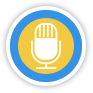
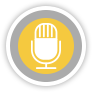
调整了，语音识别 - 倒计时5秒的圆环进度条样式

Changed region(s): [[0.1075, 0.1075, 0.8817, 0.8817]]

diff --git a/cheerz/css/style.css b/cheerz/css/style.css
@@ -396,17 +396,17 @@ input:-ms-input-placeholder {color: #666;}
 .hudong-txt{ position:fixed; left:0; width:100%; text-align:center; bottom:18%;}
 .hudong-txt h3{ color:#ffffff; font-size:.80rem; font-weight:bold;}
 .hudong-txt span{ color:#ffffff; font-size:2.5rem; font-weight:bold; line-height:1.3;}
-.hudong-yuyin{ position:fixed; right:.6rem; bottom:.4rem;}
-.hudong-yuyin img{ width:.93rem; height:.93rem; float:left;}
+.hudong-yuyin{ position:fixed; right:0rem; bottom:0.2rem;}
+.hudong-yuyin img{ width:1.86rem; height:1.86rem; float:left;}
 .hudong-yuyin div_nono{ width:.93rem; height:.93rem; float:left;}
-.hudong-yuyin ul{ float:left; width:1.1rem;}
+.hudong-yuyin ul{ float:left; width:2.2rem;}
 .hudong-yuyin ul li{ float:left; background:#d9d9d9;border-radius:.6rem; margin-left:.08rem; position:relative; overflow:hidden;}
 .hudong-yuyin ul li span{ position:absolute; top:0; left:0; width:100%; height:100%; background:#f5c93f;}
-.hudong-yuyin ul li:nth-child(1){width:.13rem; height:.28rem; margin-top:.52rem;}
-.hudong-yuyin ul li:nth-child(2){width:.13rem; height:.40rem; margin-top:.40rem;}
-.hudong-yuyin ul li:nth-child(3){width:.13rem; height:.52rem; margin-top:.28rem;}
-.hudong-yuyin ul li:nth-child(4){width:.13rem; height:.64rem; margin-top:.16rem;}
-.hudong-yuyin ul li:nth-child(5){width:.13rem; height:.80rem; }
+.hudong-yuyin ul li:nth-child(1){width:.26rem; height:.56rem; margin-top:1.04rem;}
+.hudong-yuyin ul li:nth-child(2){width:.26rem; height:.80rem; margin-top:.8rem;}
+.hudong-yuyin ul li:nth-child(3){width:.26rem; height:1.04rem; margin-top:0.56rem;}
+.hudong-yuyin ul li:nth-child(4){width:.26rem; height:1.28rem; margin-top:.32rem;}
+.hudong-yuyin ul li:nth-child(5){width:.26rem; height:1.6rem; }
 .m-timu2{ position:fixed; left:0; top:0; width:100%; height:100%; background:url(../images/tm.png) repeat;}
 .m-timu{ position:fixed; left:0; top:0; width:100%; height:100%; z-index:9; background:url(../images/tm.png) repeat;}
 .m-timu span{ text-align:center; color:#ffffff; font-size:1rem; line-height:1.2rem; position:fixed; width:100%; left:0; display:block; top:50%; transform: translateY(-50%); }

diff --git a/cheerz/hudong-yuyinshibie.html b/cheerz/hudong-yuyinshibie.html
@@ -11,9 +11,9 @@
 		<div id="orientLayer">
 			<div class="wt-box">
 				<div class="wt-bg"><img id="pict" src=""></div>
-				<div class="hudong-yuyin" >
-					
-                    <img src="images/mkf.png" >
+				<div class="hudong-yuyin">
+
+					<img src="images/mkf.png">
 					<ul>
 						<li><span></span></li>
 						<li><span></span></li>
@@ -21,7 +21,7 @@
 						<li><span></span></li>
 						<li><span></span></li>
 					</ul>
-					<div style="position: absolute;width:.93rem; height:.93rem;top:28px;left:28px" class="second circle"></div>
+					<div style="position: absolute;width:.78rem; height:.78rem;top:.2rem;left:.2rem" class="second circle"></div>
 				</div>
 			</div>
 		</div>
@@ -46,12 +46,15 @@
 					return null;
 				}
 				$('.second.circle').circleProgress({
-				    value: 1,
-					fill: { color: "#ff1e41" },
-					size: 56,
-					startAngle: -Math.PI/2,
+					value: 1,
+					fill: {
+						color: "#3493E4"
+					},
+					size: 39,
+					startAngle: -Math.PI / 2,
+					thickness:4
 				}).on('circle-animation-progress', function(event, progress) {
-				    $(this).find('strong').html(parseInt(100 * progress) + '<i>%</i>');
+					$(this).find('strong').html(parseInt(100 * progress) + '<i>%</i>');
 				});
 				startgame();
 			}

diff --git a/cheerz/js/zhibo-kt.js b/cheerz/js/zhibo-kt.js
@@ -148,7 +148,7 @@ function checklessondata(lastplaytime, currtime) {
 			// lessondata[i].url = "hudong-yes-no";
 			// lessondata[i].para = "https://www.fangjial.com/uploads/allimg/200216/1K33I406-0.jpg|Have you something hard?|1|20";
 
-			lessondata[i].url = "hudong-huojian"; //debug
+			// lessondata[i].url = "hudong-huojian"; //debug
 			// lessondata[i].para = "https://www.fangjial.com/uploads/allimg/200216/1K33I406-0.jpg|Have you something hard?|1|20";
 
 			//hudong-tupianlunbo 保持时间|图片url
